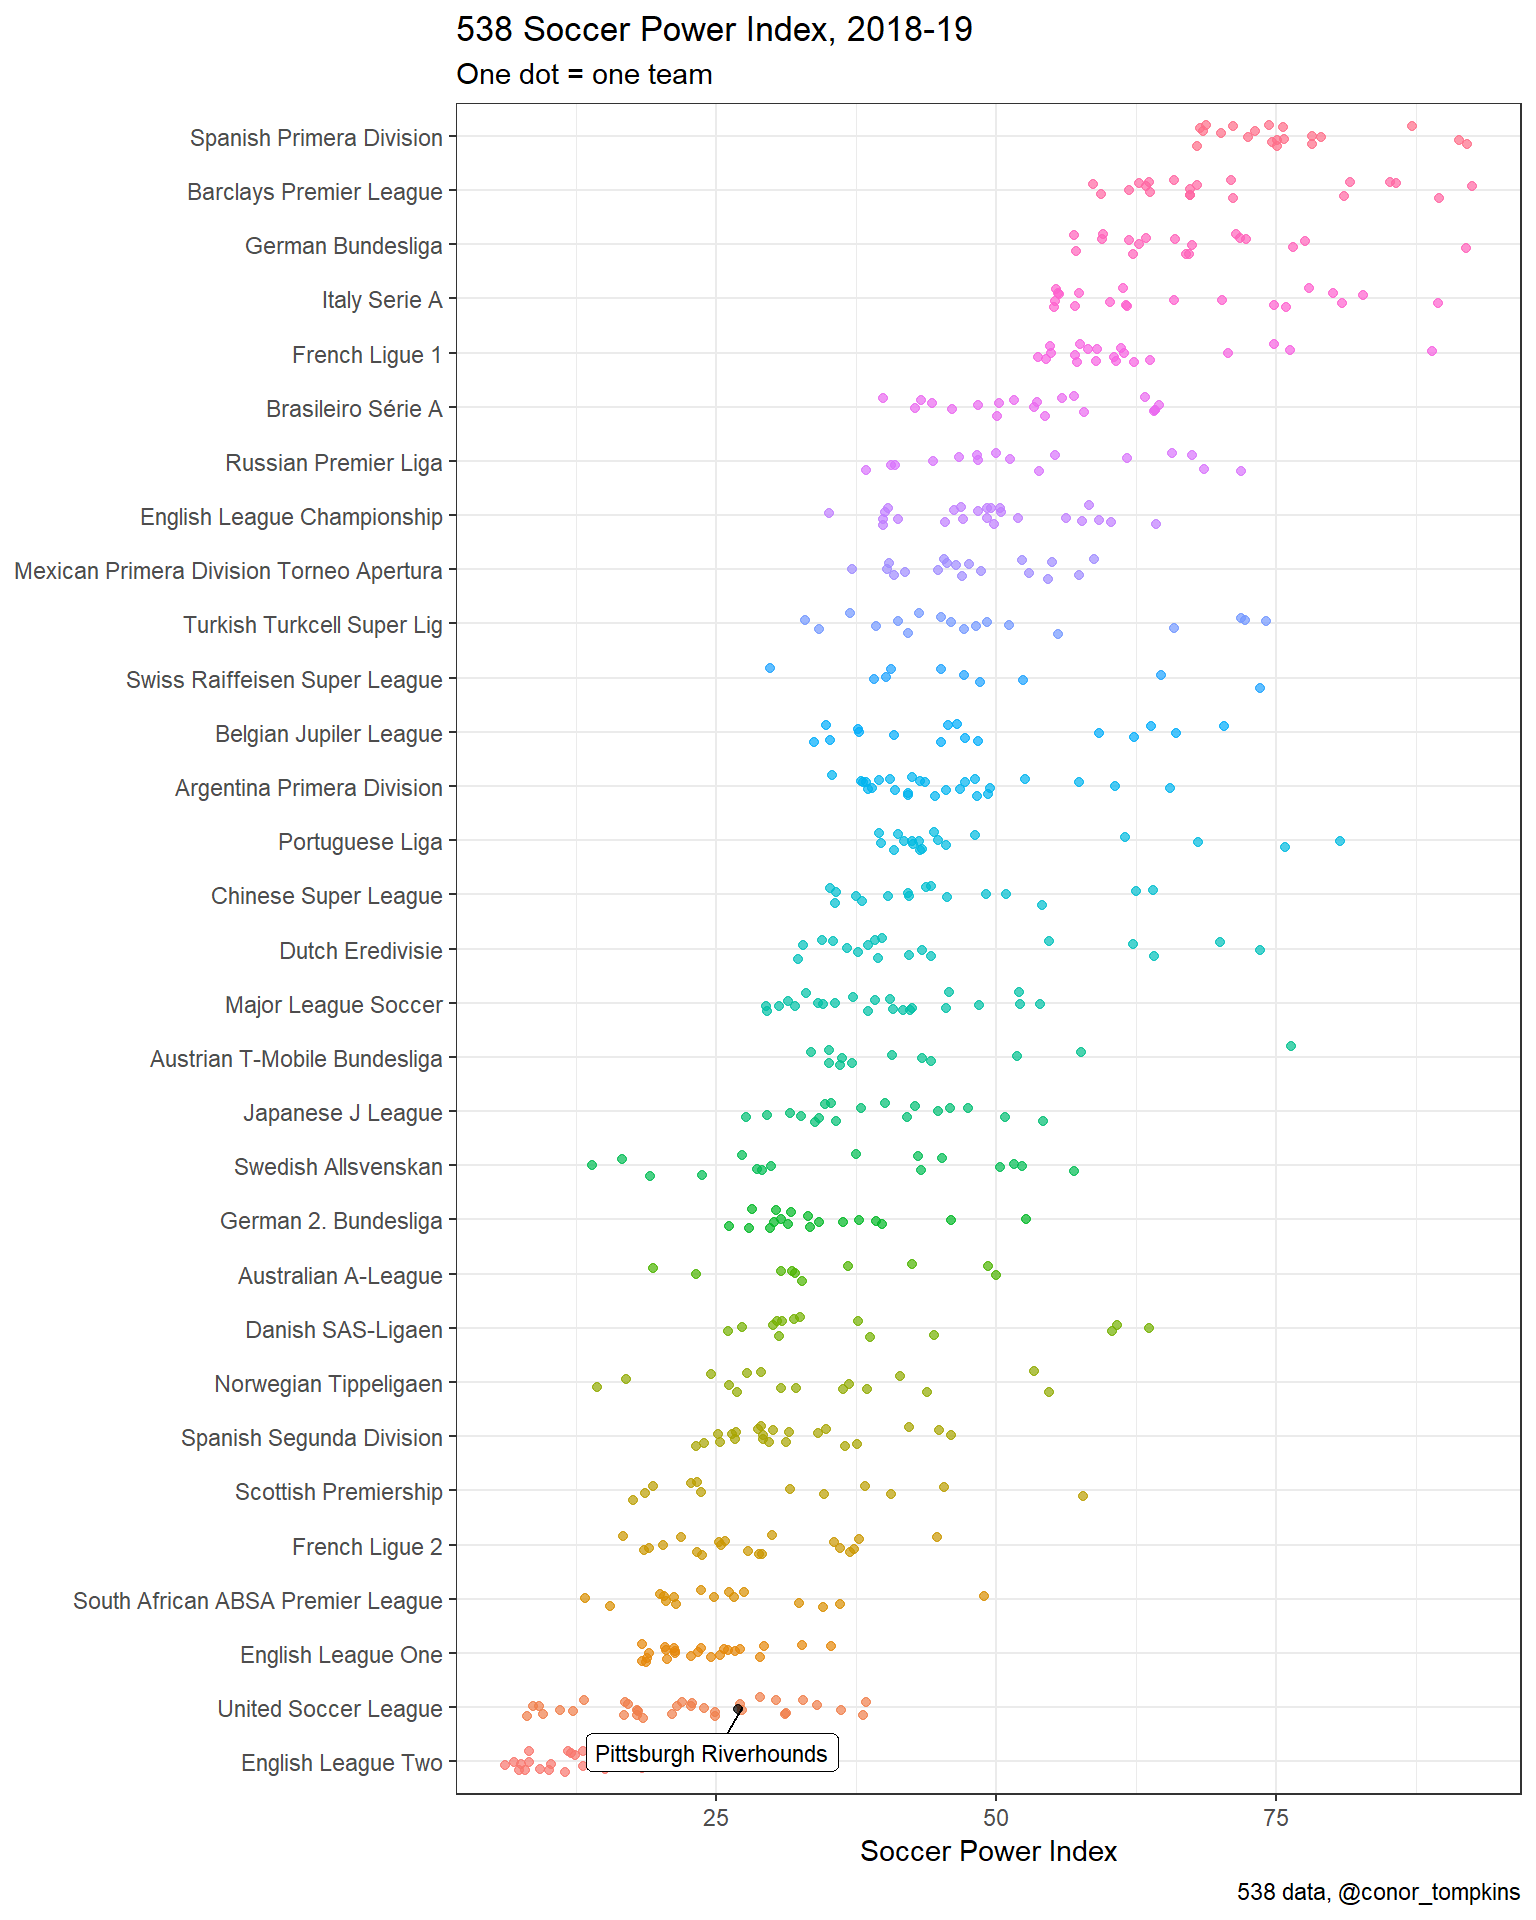
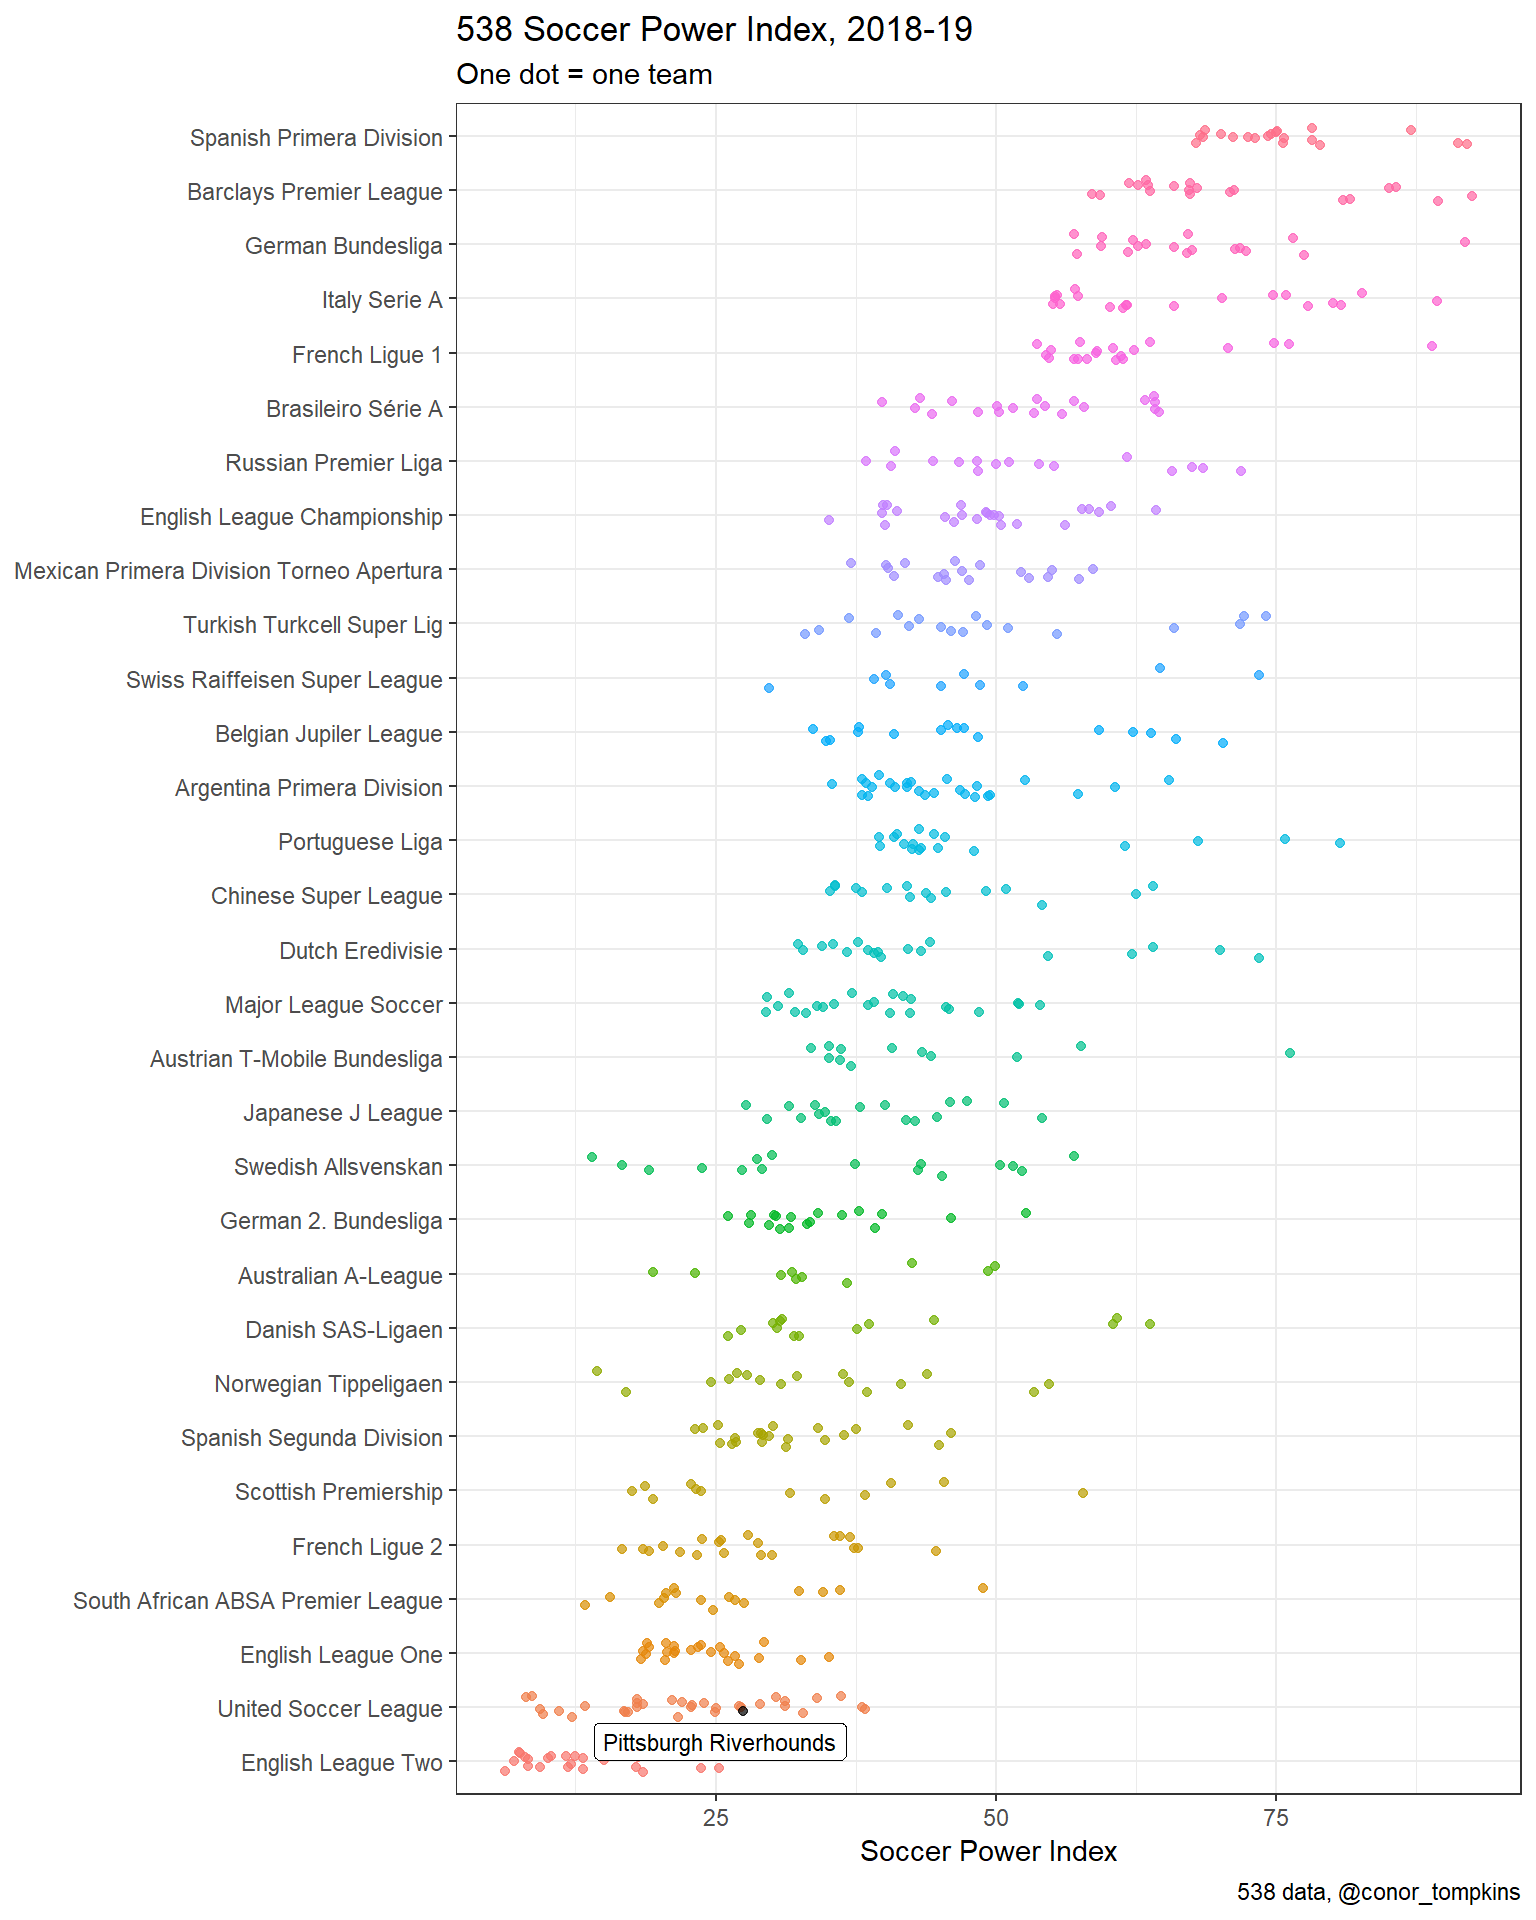
made labels bigger

diff --git a/content/post/2018-08-14-usl-in-the-538-global-club-soccer-rankings.html b/content/post/2018-08-14-usl-in-the-538-global-club-soccer-rankings.html
@@ -70,7 +70,7 @@ df</code></pre>
   filter(league == &quot;United Soccer League&quot;) %&gt;% 
   ggplot(aes(off, def, label = name)) +
   geom_point() +
-  geom_label_repel(size = 3,
+  geom_label_repel(size = 4,
                    force = 4) +
   scale_y_reverse() +
   labs(title = &quot;538 Soccer Power Index, 2018-19&quot;,
